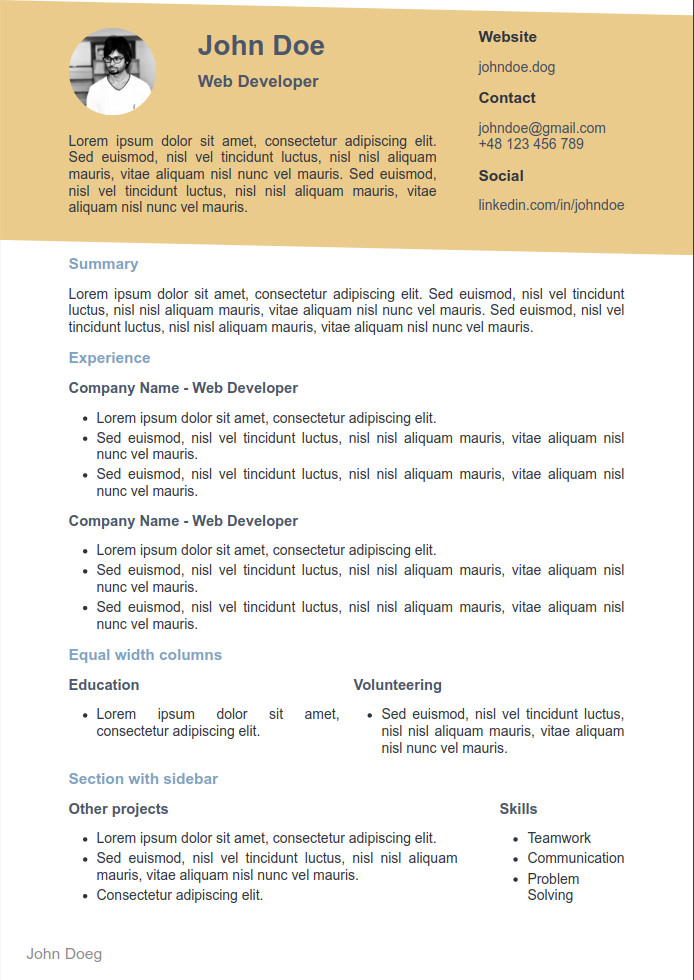
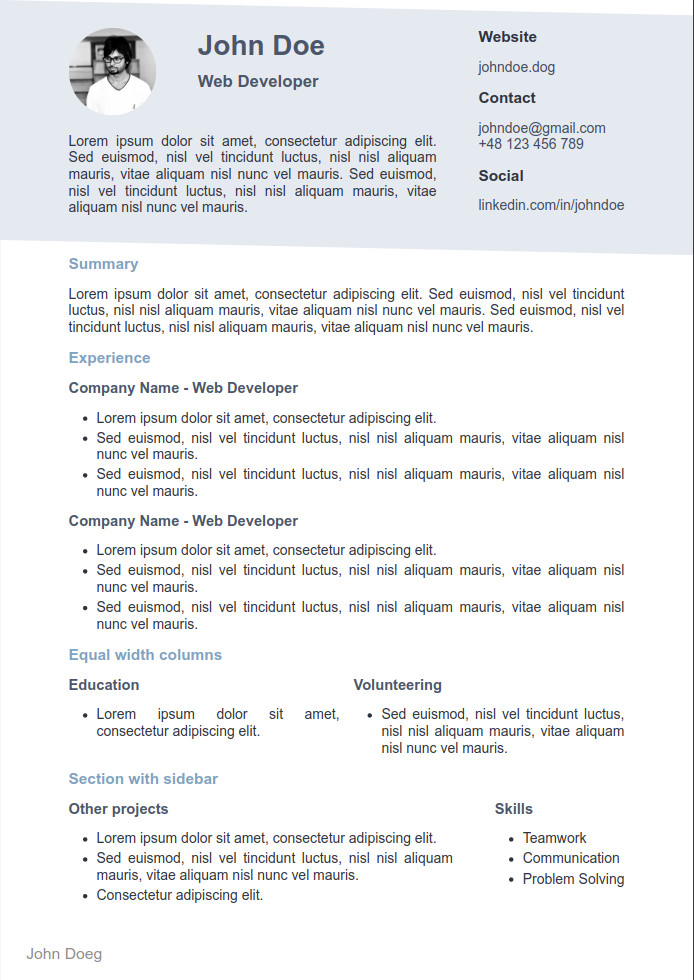
Update example resume and readme

Changed region(s): [[0.0, 0.0, 0.9986, 0.2755], [0.7262, 0.7959, 0.9078, 0.9184], [0.1816, 0.8571, 0.6657, 0.8878]]

diff --git a/resume.css b/resume.css
@@ -8,7 +8,7 @@
   --heading-color: #4c566a;
   --accent-color: #81a1c1;
   --link-color: #434c5e;
-  --header-bg-color: #ebcb8b;
+  --header-bg-color: #e5e9f0;
   --bg-color: white;
   --font-size: 16px;
   --line-height: 19px;

diff --git a/README.md b/README.md
@@ -6,7 +6,7 @@
 
 ### Setup
 
-Install dependencies:
+Install dependencies (make you have [actively supported version](https://endoflife.date/nodejs) of `node`installed, in this case version 14 or higher is required):
 
 ```bash
 make install

diff --git a/resume.md b/resume.md
@@ -118,7 +118,7 @@ Lorem ipsum dolor sit amet, consectetur adipiscing elit. Sed euismod, nisl vel t
 
 - Teamwork
 - Communication
-- Problem Solving
+- Problem&nbsp;Solving
 
 </div>
 </div>
